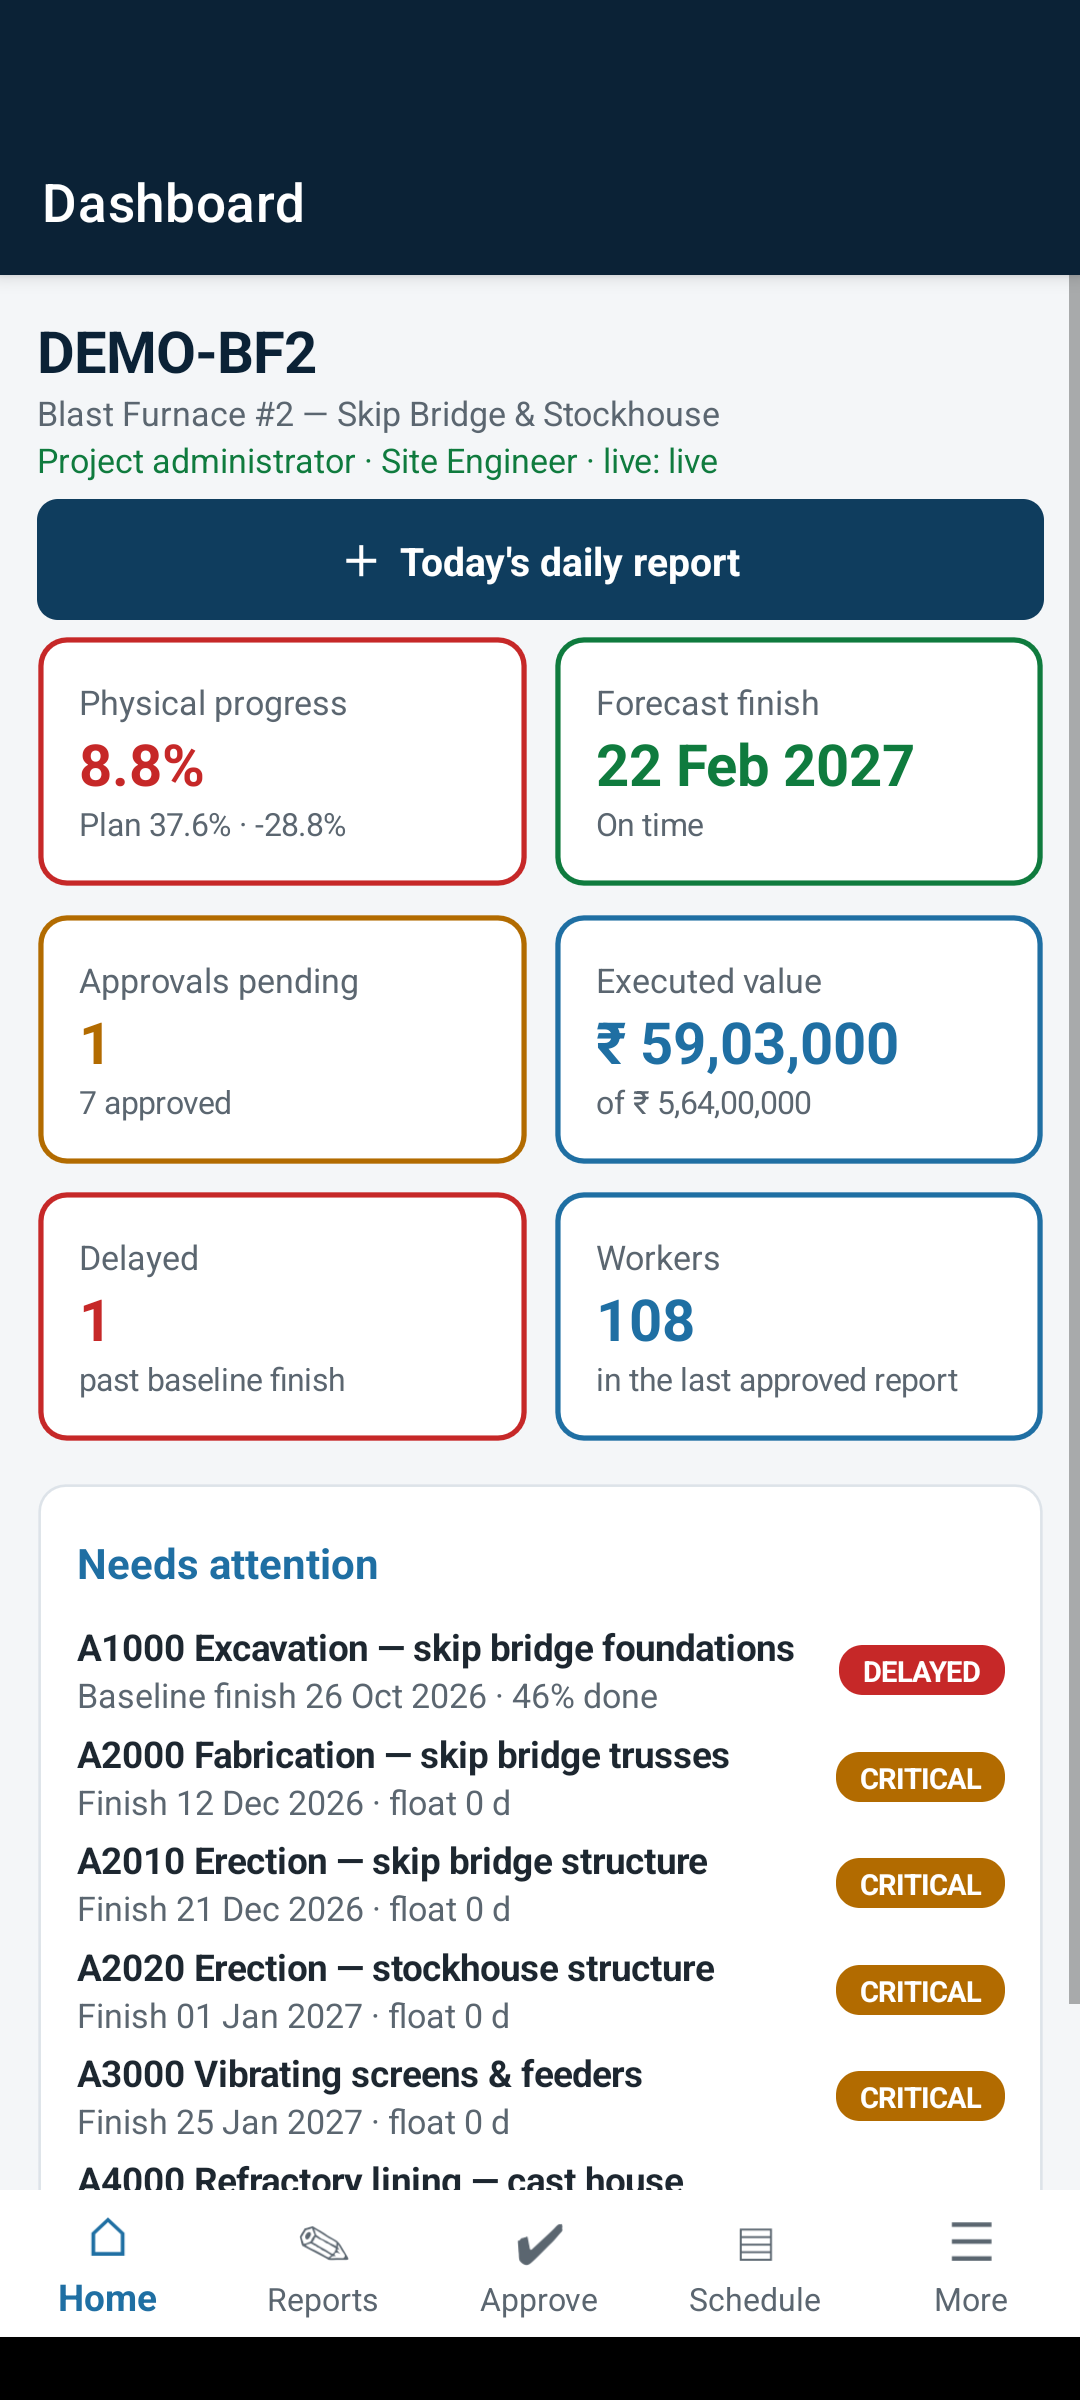
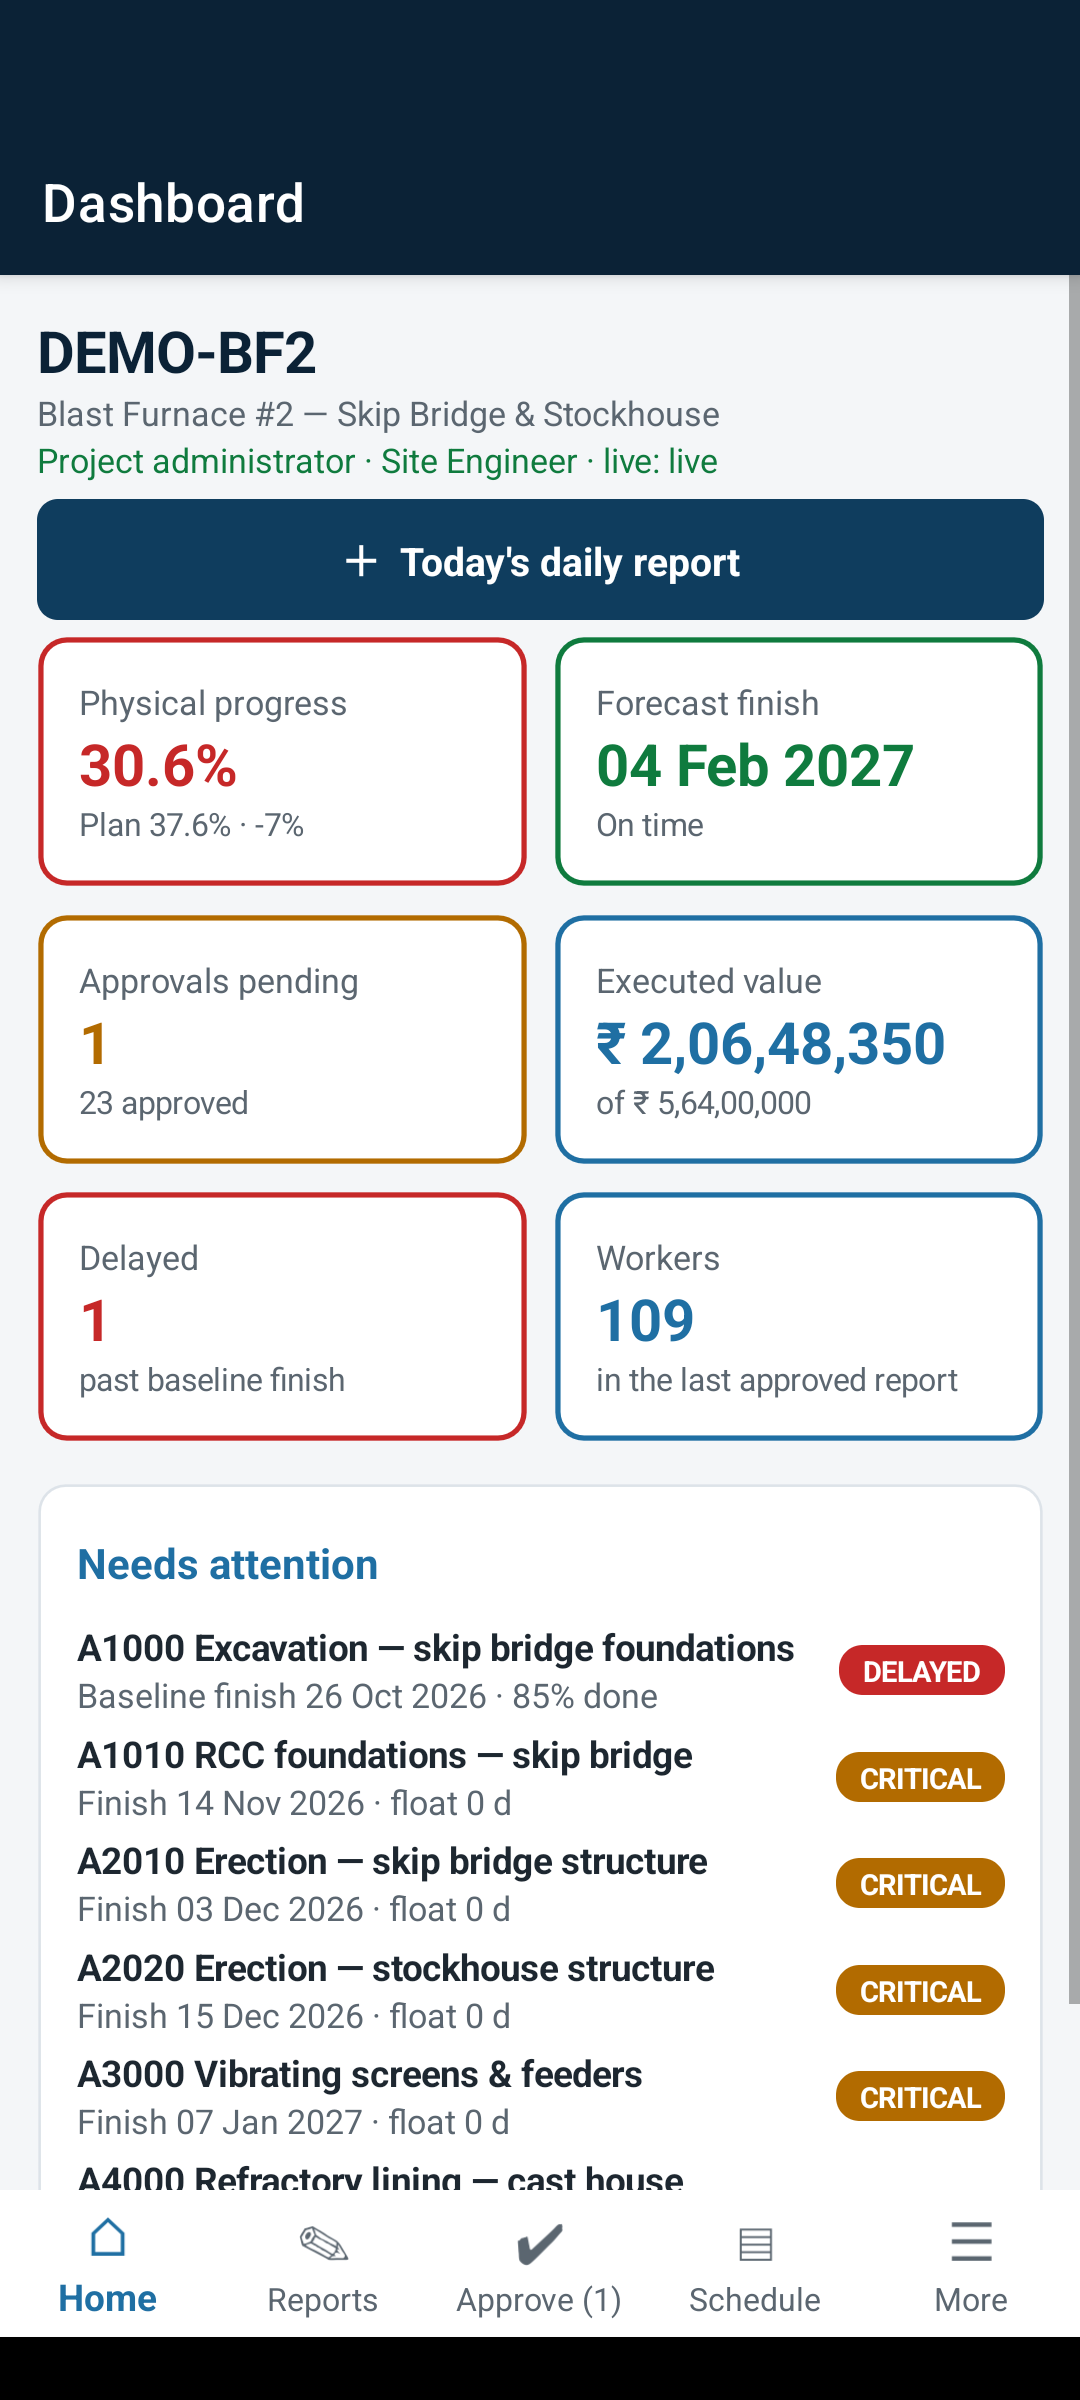
Windows app: shorter approvals badge, S-curve labels never overlap; fresh Android screenshots
Claude-Session: https://claude.ai/code/session_0119zdQCowrA7LxzhykZieoC

diff --git a/src/ConstructDpr.App/Controls/SCurveChart.cs b/src/ConstructDpr.App/Controls/SCurveChart.cs
@@ -59,9 +59,18 @@ public sealed class SCurveChart : FrameworkElement
         {
             var last = actual[^1];
             dc.DrawEllipse(Actual.Brush, null, new Point(X(last.Date), Y(last.Actual!.Value)), 4, 4);
-            Text(dc, $"{last.Actual:0.0}% actual", X(last.Date) + 7, Y(last.Actual.Value) - 18, dip, Actual.Brush);
             var planNow = pts.LastOrDefault(c => c.Date <= last.Date);
-            if (planNow is not null) Text(dc, $"{planNow.Planned:0.0}% planned", X(last.Date) + 7, Y(planNow.Planned) - 4, dip, Planned.Brush);
+            var yActual = Y(last.Actual.Value);
+            var yPlan = planNow is null ? double.NaN : Y(planNow.Planned);
+            // Keep the two labels apart: the lower curve's label goes below its line, the higher one above.
+            double actualLabel = yActual - 18, planLabel = yPlan - 18;
+            if (planNow is not null && Math.Abs(yActual - yPlan) < 30)
+            {
+                if (yActual >= yPlan) { actualLabel = yActual + 4; planLabel = yPlan - 18; }
+                else { planLabel = yPlan + 4; actualLabel = yActual - 18; }
+            }
+            Text(dc, $"{last.Actual:0.0}% actual", X(last.Date) + 7, actualLabel, dip, Actual.Brush);
+            if (planNow is not null) Text(dc, $"{planNow.Planned:0.0}% planned", X(last.Date) + 7, planLabel, dip, Planned.Brush);
         }
 
         // Legend

diff --git a/src/ConstructDpr.App/MainWindow.xaml.cs b/src/ConstructDpr.App/MainWindow.xaml.cs
@@ -96,7 +96,8 @@ public partial class MainWindow : Window
                 waiting = (await AppState.Api.DprsAsync(AppState.Pid)).Count(d => d.Status == ConstructDpr.Shared.Model.DprStatus.Submitted);
         }
         catch (Exception ex) when (ex is HttpRequestException or UnauthorizedAccessException or NotFoundException or InvalidOperationException) { }
-        item.Content = waiting > 0 ? $"✎   Daily reports   ● {waiting} to approve" : "✎   Daily reports";
+        item.Content = waiting > 0 ? $"✎   Daily reports  ● {waiting}" : "✎   Daily reports";
+        item.ToolTip = waiting > 0 ? $"{waiting} report(s) waiting for your approval" : null;
     }
 
     private async void OnProjectPicked(object sender, SelectionChangedEventArgs e)
